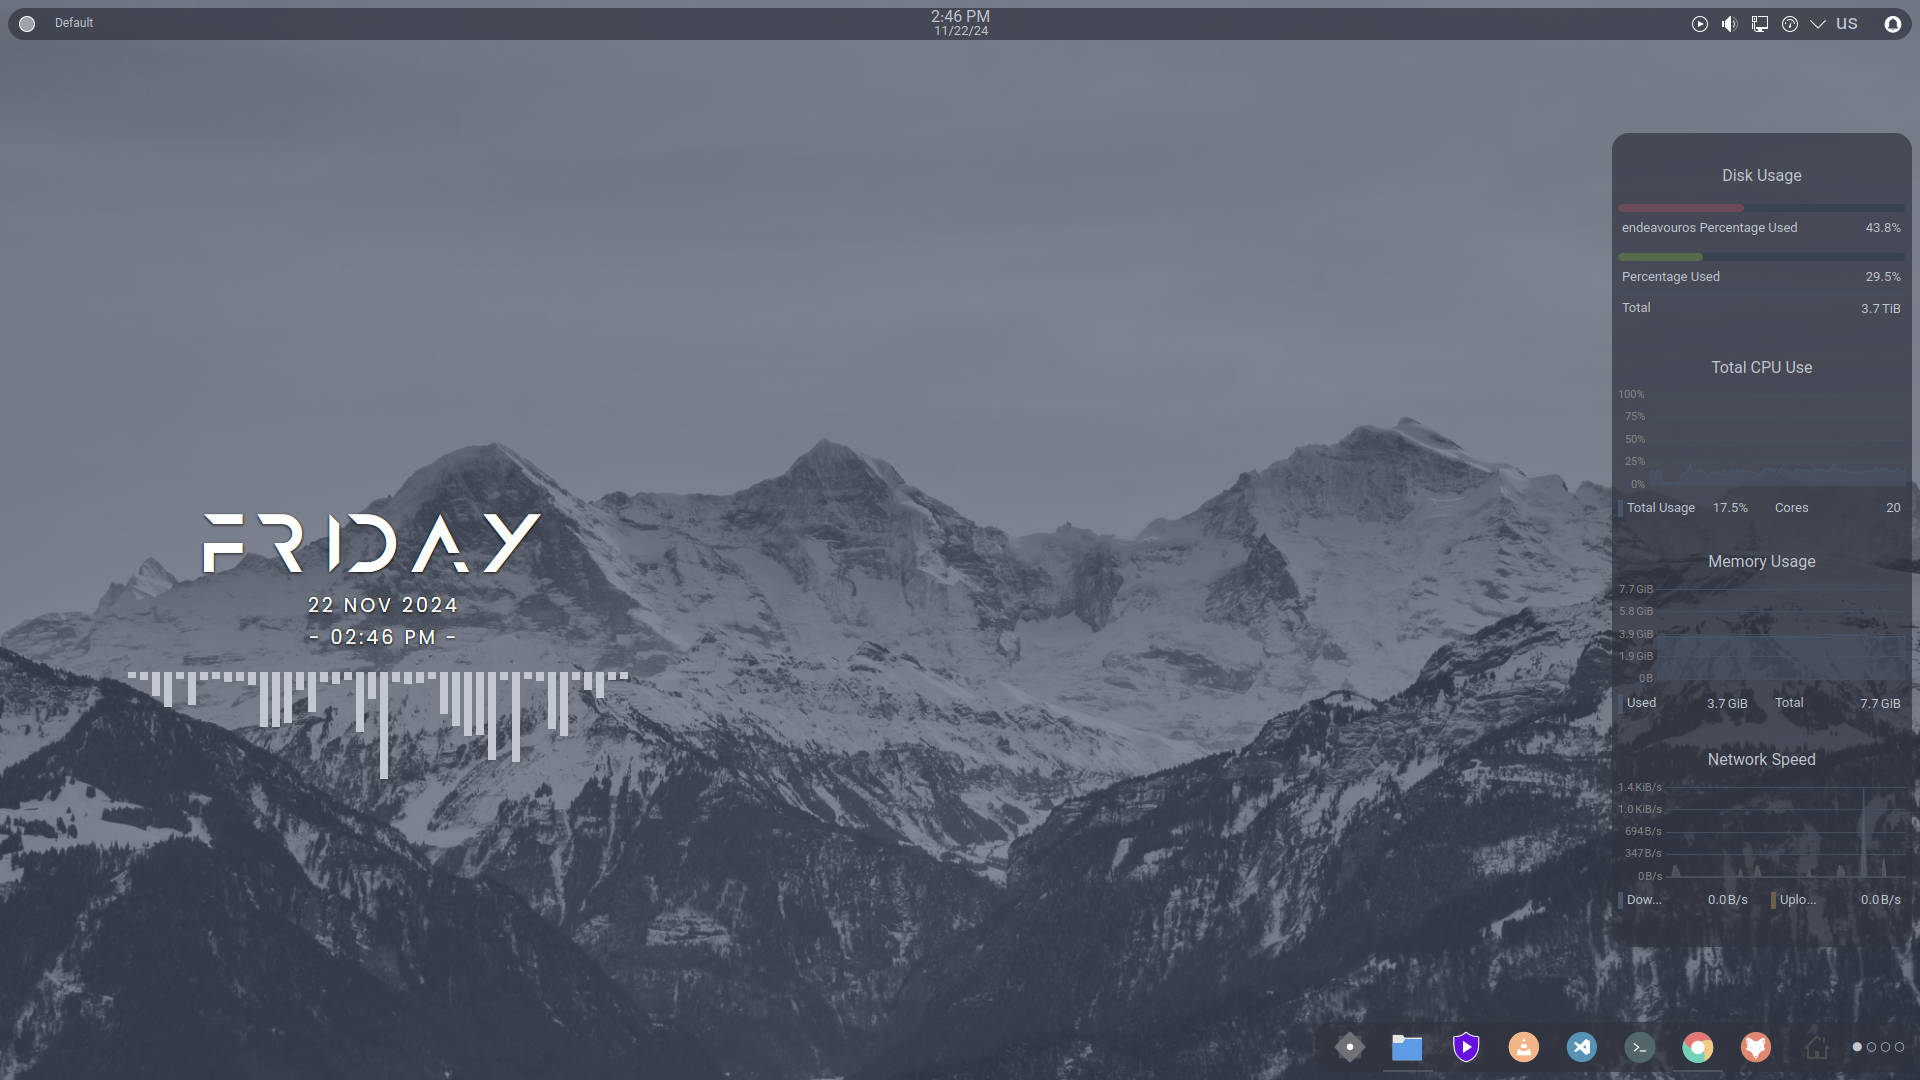
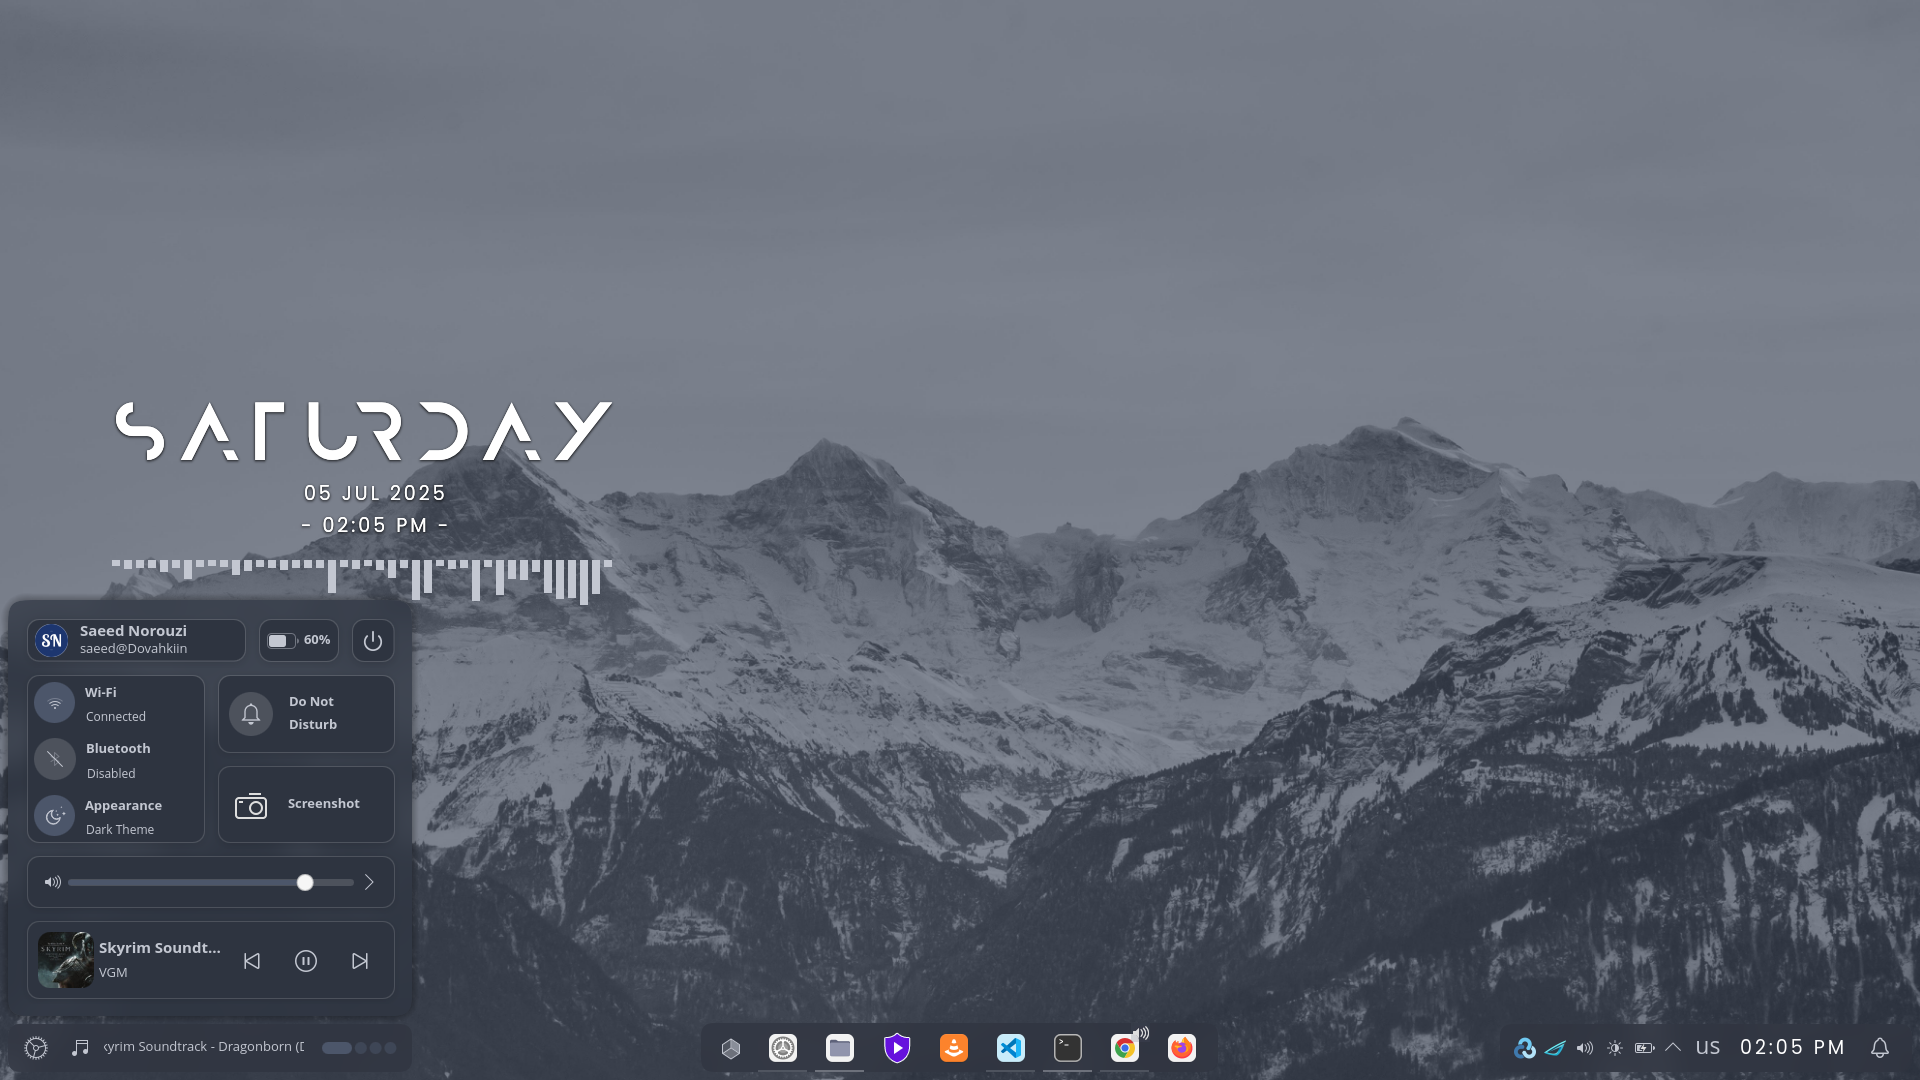
Update KDE Plasma customization

diff --git a/customization/kde/kde_Nordic.md b/customization/kde/kde_Nordic.md
@@ -1,10 +1,15 @@
 # KDE Plasma Nordic Customization
 
-This section provides guidance on customizing KDE Plasma desktop environments, drawing inspiration from a tutorial on the [LinuxScoop](https://www.youtube.com/@linuxscoop) YouTube channel. The original video can be found [here](https://www.youtube.com/watch?list=PLKopOf5__2tj0aVUX68Kyr9rNltrLTWDq&v=2GYT7BK41zk&feature=youtu.be).
+This section offers step-by-step guidance for customizing the KDE Plasma desktop environment, inspired by tutorials featured on the [LinuxScoop YouTube channel](https://www.youtube.com/@linuxscoop). The customization techniques are based on two key videos:
+
+- [KDE Plasma Desktop Nord Color Palette](https://www.youtube.com/watch?list=PLKopOf5__2tj0aVUX68Kyr9rNltrLTWDq&v=2GYT7BK41zk&feature=youtu.be)
+- [How to Make KDE Plasma 6 Elegant and Professional](https://www.youtube.com/watch?v=N-Hvrlxn1aU)
+
+These resources demonstrate how to create a visually appealing and professional-looking KDE setup using themes, widgets, and layout adjustments.
 
 ## Notice of Obsolescence for the Original Video
 
-Due to significant changes in **Plasma 6**, some plugins, software, and modules featured in the original video are no longer compatible or installable. As a result, I have made several adjustments to this guide to achieve a sleek and visually appealing Nordic look for KDE Plasma 6.
+Due to significant changes in **Plasma 6**, some plugins, software, and modules featured in the **KDE Plasma Desktop Nord Color Palette** video are no longer compatible or installable. As a result, I have made several adjustments to this guide to achieve a sleek and visually appealing Nordic look for KDE Plasma 6.
 
 ## Table of Contents
 
@@ -28,9 +33,9 @@ Due to significant changes in **Plasma 6**, some plugins, software, and modules 
 		- [Logout and Login](#logout-and-login)
 	- [Desktop \& panels Configuration](#desktop--panels-configuration)
 		- [Installing and Configuring Widgets](#installing-and-configuring-widgets)
-		- [Bottom Panel](#bottom-panel)
-		- [Side Panel](#side-panel)
-		- [Top Panel](#top-panel)
+		- [Bottom Center Panel](#bottom-center-panel)
+		- [Bottom Right Panel](#bottom-right-panel)
+		- [Bottom Left Panel](#bottom-left-panel)
 		- [Desktop](#desktop)
 	- [Konsole Customization](#konsole-customization)
 	- [FastFetch Custom Config](#fastfetch-custom-config)
@@ -41,9 +46,11 @@ Due to significant changes in **Plasma 6**, some plugins, software, and modules 
 
 ## Final Result
 
-![Neo fetch](./Images/20240210174610.png)
+![Desktop](./Images/20240210174609.png)
 
-![Desktop](./Images/20240210175138.png)
+![Fast Fetch](./Images/20240210174610.png)
+
+![Control Panel](./Images/20240210175138.png)
 
 ![Albert Application Launcher](./Images/20240210180001.png)
 
@@ -193,25 +200,11 @@ To set up the Nordic theme, navigate to the **Global Theme** settings in your sy
 
 One of the essential files we need is the `Kvantum` application style from **eliverlara's Nordic Darker theme**. Unfortunately, this application style is not included with the theme's installation. To obtain it, we need to download the theme's source code from **[eliverlara's GitHub](https://github.com/EliverLara/Nordic)**, which contains the Kvantum application style files.
 
-Since we’ll be using a custom icon set instead of the icons included with the Nordic theme, remove all Nordic icon packs from **System Settings > Colors & Themes > Icons**.
+**2 - Nordic Icons Theme**:
 
-**2 - Nordic Folders Theme**:
+Download the **Colloid icon theme** from its [Github Repo](https://github.com/vinceliuice/Colloid-icon-theme) and install the nordic gray them using the following command:
 
-Recent updates to the original source of this theme have introduced changes that make it incompatible with our configuration. To address this, we have provided the latest compatible version of the theme that works seamlessly with this setup.
-
-[Download](./files/Nordic-Folders.tar.xz)
-
-**3 - Nordic Folders Icon Pack**:
-
-This icon pack is no longer maintained, and its GitHub repository has either been removed or made private. To ensure compatibility, we have provided the latest available version of the icon pack for use.
-
-[Download](./files/Nordic-Folders-icon-pack.tar.gz)
-
-**4 - Zafiro Icons Dark Black Icon Pack**:
-
-Recent updates to the original source of this theme have introduced changes that make it incompatible with our configuration. To address this, we have provided the latest compatible version of the theme that works seamlessly with this setup.
-
-[Download](./files/Zafiro-Icons-Dark-Black-f.tar.xz)
+    ./install.sh -s nord -t grey
 
 ### Setting Up Directories and Moving Files
 
@@ -224,27 +217,6 @@ Open a terminal window in the same directory as the extracted files.
 **2. Install kvantum**:
 
     sudo pacman -S kvantum
-
-**3 - Move Zafiro Icons Dark Black to the icons directory**:
-
-    cp -r ./Zafiro-Icons-Dark-Black-f ~/.local/share/icons
-
-**4 - Move Nordic Darker to the icons directory**:
-
-    cp -r ./Nordic-Darker ~/.local/share/icons
-
-**5 - Move Nordic Darker to the icons directory and rename it to Nordic**:
-
-    cp -r Nordic-Folders/Nordic-Darker ~/.local/share/icons/Nordic
-
-**6 - Edit the index.theme file for the Nordic icon theme**:
-
-    code ~/.local/share/icons/Nordic/index.theme
-
-- In the `index.theme` file, make the following changes:
-  - Change the `Name` to `Nordic`.
-  - Change `Inherits`, `Papirus-Dark` option to the folder name of the copied `Nordic-Darker` theme.
-  - Change `Inherits`, `zafiro` option to the folder name of the copied `Zafiro-Icons-Dark-Black-f` theme.
 
 By following these steps, you'll successfully organize and move the necessary files to their respective locations for theme configuration.
 
@@ -299,7 +271,7 @@ Follow these steps to apply the Nordic theme and its variants:
 **Step 8 - Icons**:
 
 - Navigate to System Settings > Colors & Themes > Icons.
-- Activate the `Nordic` icon theme for uniform icon styling.
+- Activate the `Colloid-Grey-Nord_Dark` icon theme for uniform icon styling.
 
 **Step 9 - Cursors**:
 
@@ -346,97 +318,70 @@ Follow these steps to apply the Nordic theme and its variants:
 - Right click on desktop and `Enter Edit mode`
 - Click on `Add or Manage Widgets ...`
 - Search and install the widgets linked bellow
-  - [Window Title Applet 6](https://store.kde.org/p/2129423)
+  - [Andromeda Launcher](https://store.kde.org/p/2144212)
   - [KDE Modern Clock](https://store.kde.org/p/2135653)
-  - [Desktop Indicator](https://store.kde.org/p/2131462)
+  - [Ginti - Gnome Style Desktop Indicator](https://www.pling.com/p/2146553)
   - [Spectrum audio Emulator](https://store.kde.org/p/2201084)
-  - [KDE Control Station](https://www.pling.com/p/2196105/)
+  - [KDE Control Station](https://www.pling.com/p/2196105)
+  - [plasmusic toolbar](https://store.kde.org/p/2088872)
 
-### Bottom Panel
+### Bottom Center Panel
 
 - Right click on desktop and `Enter Edit mode`
 - Click on the bottom panel and remove all widgets except `Icons-Only Task Manager`
 - Change panel's width to `Fit content`
 - Change panel's visibility to `Dodge windows`
-- Change panel's Alignment to `Right`
-- Change panel's hight to `50`
-- Add `Desktop Indicator` widget to the right side of the panel
-- Add `Folder View` widget next to the Desktop Indicator
-- Use `Separator` widget to separate panel parts from each other
+- Change panel's Alignment to `Center`
+- Change panel's hight to `49`
+- Add `Andromeda Launcher` widget To the far left side of the panel
+  - Change the icon to the Icon of your choice
+  - Set the `Launcher Positioning` to `Horizontal Center`
+  - Enable `Floating`
+  - Enable `Use system font setting`
+- Pin your most used apps to the panel
 
-### Side Panel
+### Bottom Right Panel
 
 - Right click on desktop and `Enter Edit mode`
-- Add an empty panel to the right side of the screen
+- Add an empty panel to the bottom right side of the screen
   - Change panel's width to `Fit content`
-  - Change panel's visibility to `Auto hide`
-  - Change panel's hight to `300`
+  - Change panel's visibility to `Dodge windows`
+  - Change panel's hight to `49`
 - Click on the `Add widget` bottom
-- Add the following widgets to the panel (From top to bottom)
-  - Panel Spacer
-    - click on panel to start the panel edit process
-    - hover over Spacer and uncheck `Flexible size`
-    - set the panel's size to `20`
-  - Disk Usage
-  - Panel Spacer
-    - set the panel's size to `20`
-  - Total CPU Use
-    - Change display style to `Line Chart`
-    - Change Opacity of the area below line to `50`
-  - Panel Spacer
-    - set the panel's size to `20`
-  - Memory Usage
-    - Change display style to `Line Chart`
-    - Change Opacity of the area below line to `50`
-  - Panel Spacer
-    - set the panel's size to `20`
-  - Network Speed
-    - Change display style to `Line Chart`
-    - Change Opacity of the area below line to `50`
-  - Panel Spacer
-    - set the panel's size to `20`
+- Add the following widgets to the panel (From Right to left)
+  - Notifications
+  - Modern Clock
+    - Disable Date
+    - Disable Day
+    - Empty `Style Character`
+  - keyboard layout
+  - System Tray
 
-### Top Panel
+### Bottom Left Panel
 
 - Right click on desktop and `Enter Edit mode`
-- Add an empty panel to the top of the screen
-  - Change panel's visibility to `Auto Hide`
-  - Change panel's hight to `32`
+- Add an empty panel to the bottom left side of the screen
+  - Change panel's width to `Fit content`
+  - Change panel's visibility to `Dodge windows`
+  - Change panel's hight to `49`
 - Click on the `Add widget` bottom
-- Add the following widgets to the panel (From right to left)
-  - Application luncher
-    - Right click on the widget and chose `Show Alternatives...`
-      - Choose `Application Dashboard`
-    - Right click on the widget and chose `Configure Application Dashboard...`
-      - Uncheck all options in general tab and apply
-      - Change the icon to `circle` ond click `OK`
-  - Window Title
-    - Right click on the widget and chose `Configure Window Title...`
-    - In Appearance tab
-      - change the text for when the title is available to `%a`
-      - Uncheck icon's visibility
-      - Change the space before icon to `10`
-    - In Behavior tab uncheck all select boxes and apply and OK
-  - Panel Spacer
-    - click on panel to start the panel edit process
-    - hover over Spacer and uncheck `Flexible size`
-    - set the panel's size to `10`
-  - Global Menu
-  - Panel Spacer
-  - Digital clock
-  - Panel Spacer
-  - System Tray
-  - Panel Spacer
-    - set the panel's size to `10`
-  - keyboard layout
-  - Panel Spacer
-    - set the panel's size to `10`
+- Add the following widgets to the panel (From left to right)
   - KDE Control Station
-    - Open its configuration menu and change Icon and Items to your preference
-    - Remove duplicated items that are in the control station from System Tray
-  - Panel Spacer
-    - set the panel's size to `10`
-  - Notifications
+    - Change the layout to `Control Center`
+    - Enable `Animations`
+    - Enable `Show boarders around components`
+    - In the `Show quick toggle buttons` section enable
+      - Color Scheme Switcher
+      - Screenshot Button
+    - Disable `Brightness Control`
+    - Change `Volume Control` to `Thin slider`
+  - plasmusic toolbar
+    - In the `Panel View` section disable
+      - Show skip backward control
+      - Show play/pause control
+      - Show skip forward control
+  - Ginti - Gnome Style Desktop Indicator
+    - Change the `Spacing radius` to the desired value
 
 ### Desktop
 
